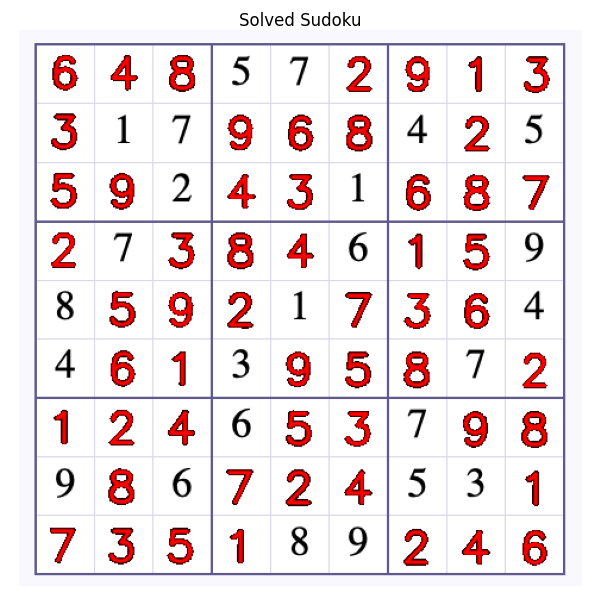
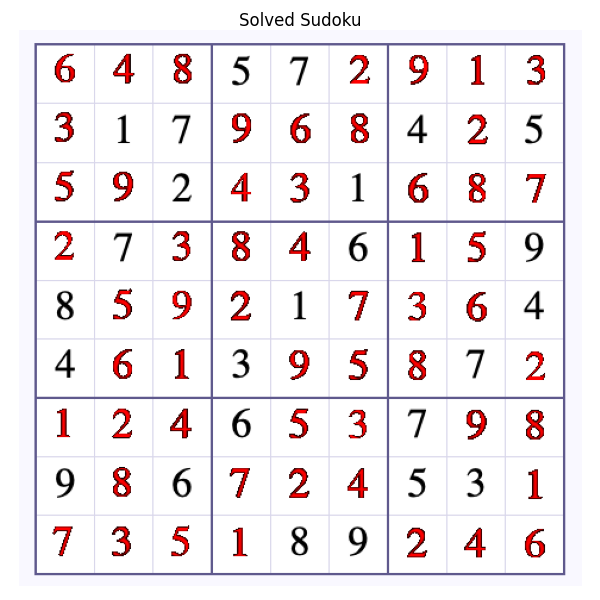
updated example output images and added sudoku results with Arial and Georgia font

diff --git a/README.md b/README.md
@@ -2,6 +2,8 @@
 
 ## Summary
 
+Computer vision pipeline that detects unsolved Sudoku puzzles from images, solves them, and renders the solution back onto the original image using a matching font.
+
 ## Requirements
 
 * [uv](https://docs.astral.sh/uv/)
@@ -96,6 +98,17 @@ uv run ./main.py ./data/sudoku.png -o example/sudoku-result.png
 Saved output:
 
 ![Sudoku sample result](example/sudoku-result.png)
+
+Font detection is implemented in the pipeline, therefore the output font is based on the font in the input image.
+Currently, the training dataset for font detection is comprised of: Arial, Georgia, and Times since those three fonts are the most used font.
+
+An example output with Georgia font:
+
+![Sudoku with Georgia font](example/sudoku-georgia-solution.png)
+
+An example output with Arial font:
+
+![Sudoku with Arial font](example/sudoku-arial-solution.png)
 
 ## Pipeline
 
